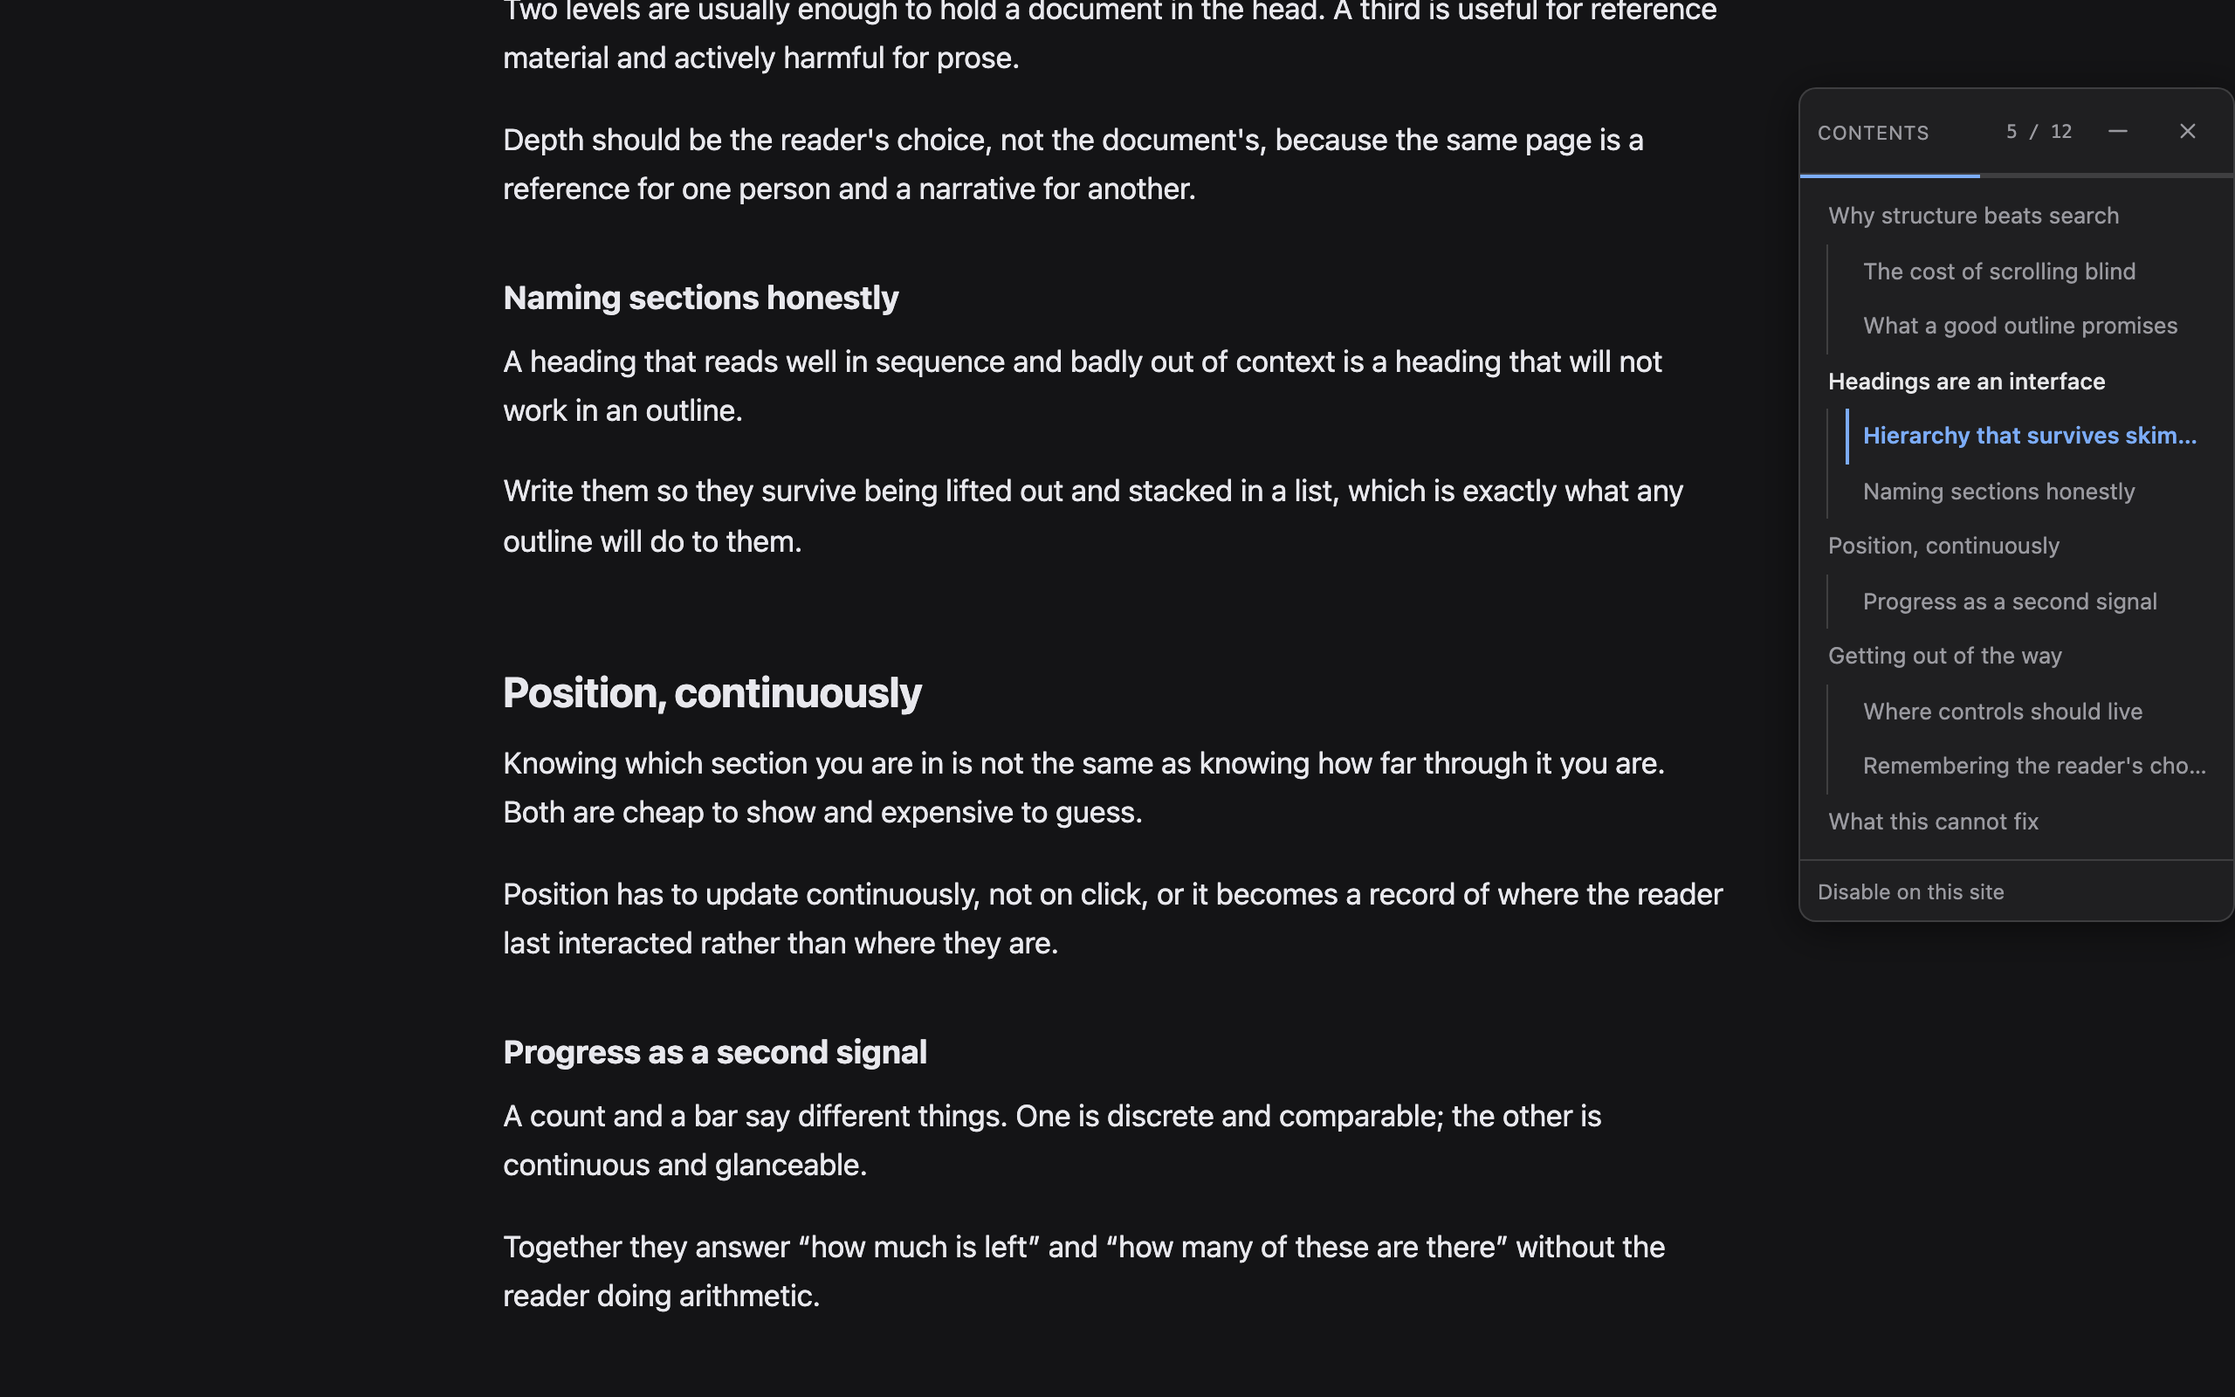
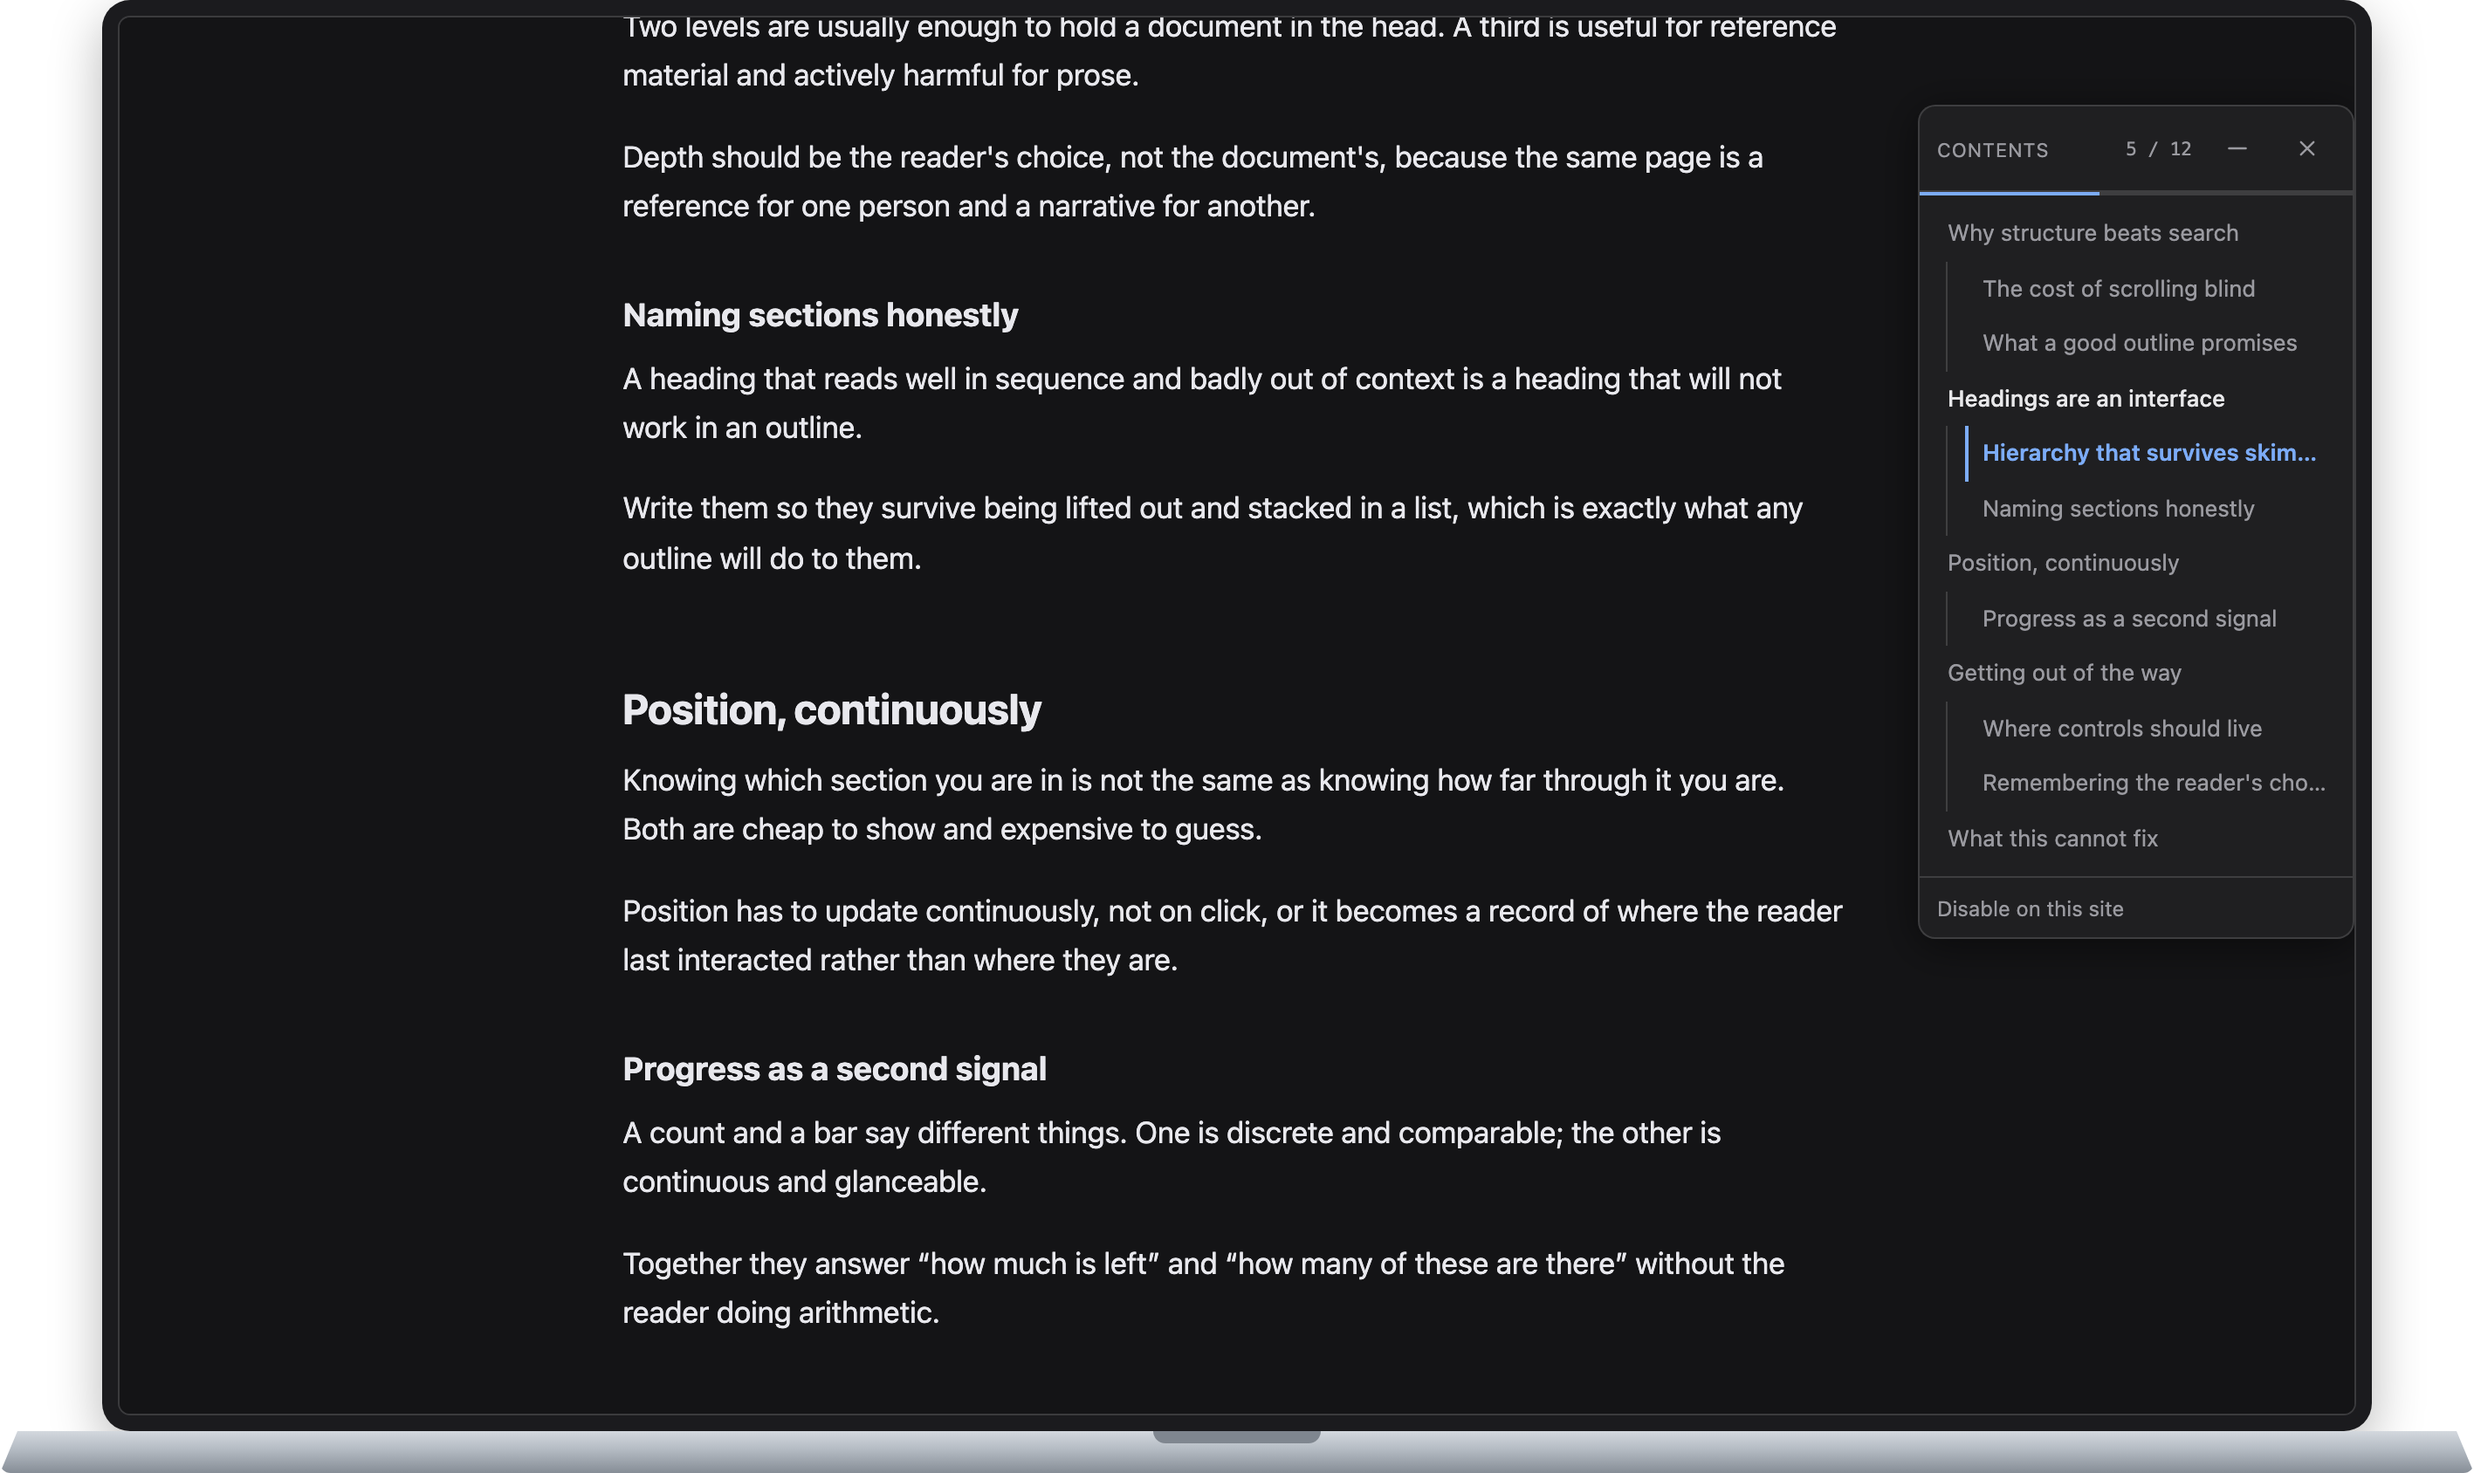
feat(shots): 六张图都套上真机外壳，去掉悬浮球上那圈多余的蓝
1. 那圈多余的蓝是**键盘焦点环**，不是进度环。抽屉只能通过点悬浮球打开，脚本
   为了按 Enter 先 focus 了球，而球本身没有任何 focus 样式，于是拿到了浏览器
   默认的那一圈 —— 正好套在进度环外面，看着像画错了。现在按完 Enter 立刻 blur，
   不需要开抽屉的那张干脆不 focus。

2. 外壳做成真机的样子：状态栏（9:41 + 信号/Wi-Fi/电量）、灵动岛、Home 指示条，
   iPad 同款（无灵动岛，多一个前摄小点）。状态栏用页面自己的背景色铺，因为设备
   上就是这样 —— 正文从状态栏底下滚过去，状态栏合成在它上面。

   这些是 mockup 元素，设备上没拍过，README 里写明了哪些是画的。状态栏以下
   的一切仍然是扩展自己渲染的。

3. Mac 也带壳了：薄边框 + 底座（梯形 + 取手凹槽）。**刻意没有刘海** —— 真机上
   刘海在菜单栏里、在窗口内容之上，画在这儿就是一条黑杠横穿句子中间；要让它看着
   对，就得连菜单栏一起画，那是在编造这次截图里根本不存在的 macOS 界面。
   没有刘海的 MacBook 是真机器，正文上盖一道刘海不是。

外壳自带圆角和阴影、四角透明，所以站点上不再给这些图加 rounded-2xl + border ——
否则会在透明角外面画出一圈方框。og:image 与 schema 的尺寸跟着更新。

diff --git a/src/lib/schema.ts b/src/lib/schema.ts
@@ -136,8 +136,8 @@ export function buildSchema(input: SchemaInput) {
       primaryImageOfPage: {
         '@type': 'ImageObject',
         url: abs('screenshots/panel-light.png'),
-        width: 2560,
-        height: 1600,
+        width: 2834,
+        height: 1688,
       },
     });
   } else {

diff --git a/README.md b/README.md
@@ -23,8 +23,8 @@ npm run build    # 输出到 dist/
 
 ## 截图是怎么来的
 
-`public/screenshots/` 里的五张图不是重绘的示意图，而是**扩展自己的渲染代码**在
-WebKit 里 @2x 实拍的产物。生成方式：
+`public/screenshots/` 里的六张图不是重绘的示意图，屏幕里的一切都是**扩展自己的
+渲染代码** @2x 实拍的产物。生成方式：
 
 ```bash
 node scripts/capture.mjs
@@ -37,6 +37,15 @@ node scripts/capture.mjs
 - 改了扩展的 UI，重跑一次脚本，站点截图就跟着更新；
 - 演示文章是自己写的，**没有**使用仓库里保存的第三方站点快照 —— 那会把别人的
   内容和品牌发布到一个公开页面上。
+
+**哪些是画的**：机身外壳、状态栏（9:41 与信号/Wi-Fi/电量图标）、灵动岛、Home
+指示条、MacBook 底座 —— 这些是 mockup 元素，设备上没拍过。状态栏以下的一切都是真的。
+
+**为什么用 Chromium 而不是 WebKit**：产品跑在 Safari 里，本来该用 WebKit，
+一开始也是。但 Playwright 的 headless WebKit 对 `backdrop-filter` 谎报支持
+（`CSS.supports` 返回 true，然后不做栅格化），而面板和抽屉是 94% 不透明、
+全靠这层模糊的表面 —— WebKit 下正文会直接从目录里透出来。那是拍摄工具的问题，
+不是设备上的样子。没有为截图改动任何产品 CSS。细节见 `scripts/capture.mjs` 顶部。
 
 前置条件：`../SimpleTOC` 存在、已 `npm install`、已构建过扩展包。
 
